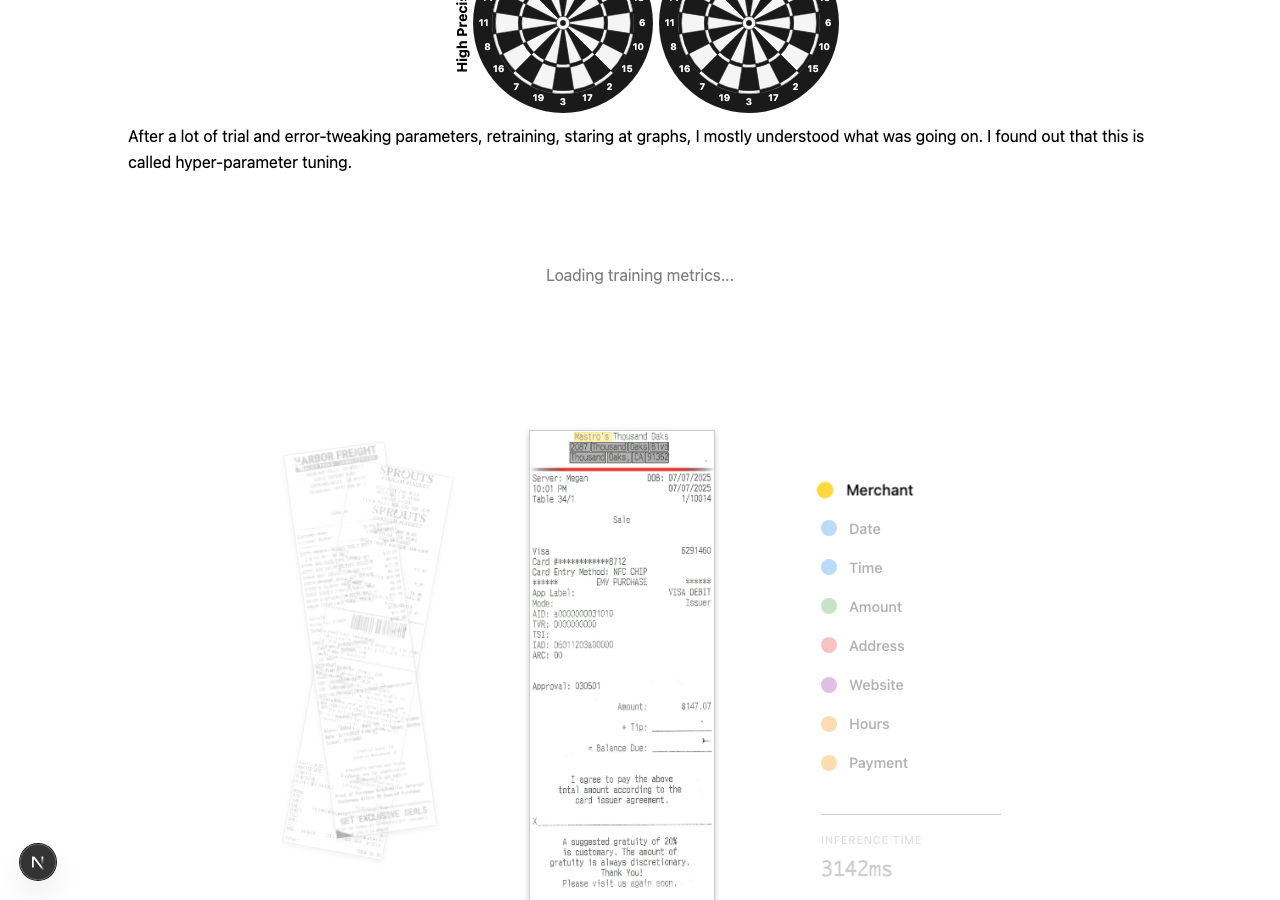
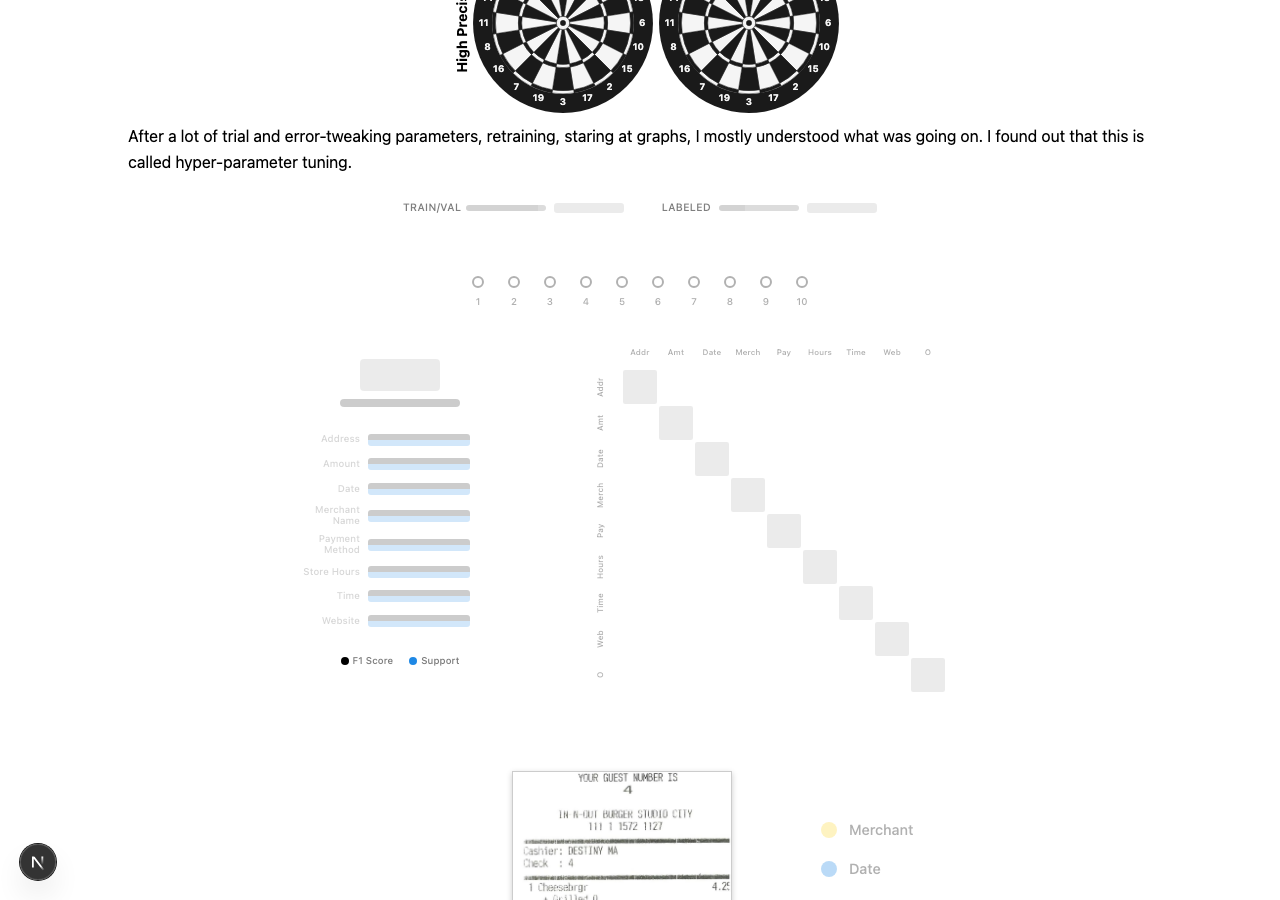
feat: add structured skeleton for TrainingMetricsAnimation
Replace plain "Loading training metrics..." text with a skeleton that
mirrors the loaded layout: dataset stats bars, epoch timeline dots,
per-label bar rows with real label names, F1 gauge placeholder,
confusion matrix grid, and the BarLegend. Uses the same .container
grid and CSS classes as the loaded state for zero layout shift.

diff --git a/portfolio/components/ui/Figures/TrainingMetricsAnimation/index.tsx b/portfolio/components/ui/Figures/TrainingMetricsAnimation/index.tsx
@@ -1,4 +1,4 @@
-import React, { useEffect, useState, useMemo, useRef } from "react";
+import React, { useCallback, useEffect, useState, useMemo, useRef } from "react";
 import { animated, useSpring, config } from "@react-spring/web";
 import { useInView } from "react-intersection-observer";
 import { api } from "../../../../services/api";
@@ -454,12 +454,144 @@ const MatrixCell: React.FC<MatrixCellProps> = ({ value, rowSum, isDiagonal }) =>
   );
 };
 
+// Skeleton placeholder labels (match the 8 entity labels in the loaded state)
+const SKELETON_LABELS = [
+  "Address", "Amount", "Date", "Merchant Name",
+  "Payment Method", "Store Hours", "Time", "Website",
+];
+
+// 9 labels for the confusion matrix (8 entity + O)
+const SKELETON_MATRIX_LABELS = ["Addr", "Amt", "Date", "Merch", "Pay", "Hours", "Time", "Web", "O"];
+
+const SKELETON_BG = "rgba(var(--text-color-rgb, 0, 0, 0), 0.08)";
+
+// Skeleton that mirrors the loaded layout exactly
+const TrainingMetricsSkeleton: React.FC = () => {
+  const N = SKELETON_MATRIX_LABELS.length;
+  const gridTemplateColumns = `var(--matrix-label-col) repeat(${N}, var(--matrix-cell-size))`;
+  const gridTemplateRows = `var(--matrix-header-row) repeat(${N}, var(--matrix-cell-size))`;
+
+  return (
+    <>
+      {/* DatasetStats skeleton */}
+      <div className={styles.datasetStats}>
+        <div className={styles.statGroup}>
+          <span className={styles.statLabel}>Train/Val</span>
+          <div className={styles.segmentedBar}>
+            <div style={{ width: "90%", height: "100%", background: SKELETON_BG }} />
+            <div style={{ width: "10%", height: "100%", background: SKELETON_BG, opacity: 0.5 }} />
+          </div>
+          <span className={styles.statValues} style={{ background: SKELETON_BG, borderRadius: 3, width: 70, height: 10 }} />
+        </div>
+        <div className={styles.statGroup}>
+          <span className={styles.statLabel}>Labeled</span>
+          <div className={styles.segmentedBar}>
+            <div style={{ width: "33%", height: "100%", background: SKELETON_BG }} />
+            <div style={{ width: "67%", height: "100%", background: SKELETON_BG, opacity: 0.5 }} />
+          </div>
+          <span className={styles.statValues} style={{ background: SKELETON_BG, borderRadius: 3, width: 30, height: 10 }} />
+        </div>
+      </div>
+
+      {/* Desktop timeline skeleton */}
+      <div className={styles.timeline}>
+        <div className={styles.timelineNodes}>
+          {Array.from({ length: 10 }, (_, i) => (
+            <div key={i} className={styles.timelineNode}>
+              <span className={styles.timelineNodeDot} style={{ opacity: 0.3 }} />
+              <span className={styles.timelineNodeLabel} style={{ opacity: 0.3 }}>{i + 1}</span>
+            </div>
+          ))}
+        </div>
+      </div>
+
+      {/* Mobile timeline skeleton */}
+      <div className={styles.timelineMobile}>
+        <div className={styles.timelineArrow} style={{ opacity: 0.25 }}>‹</div>
+        <div className={styles.timelineMobileCenter}>
+          <span className={styles.timelineMobileText} style={{ opacity: 0.3 }}>— / —</span>
+        </div>
+        <div className={styles.timelineArrow} style={{ opacity: 0.25 }}>›</div>
+      </div>
+
+      {/* Left panel skeleton */}
+      <div className={styles.leftPanel}>
+        {/* F1 Gauge */}
+        <div className={styles.gaugeContainer}>
+          <div style={{ width: 80, height: 32, background: SKELETON_BG, borderRadius: 4 }} />
+          <div className={styles.gaugeBar} />
+        </div>
+
+        {/* Per-label bars */}
+        <div className={styles.perLabelContainer}>
+          {SKELETON_LABELS.map((label) => (
+            <div key={label} className={styles.labelRow}>
+              <span className={styles.labelName} style={{ opacity: 0.3 }}>{label}</span>
+              <div className={styles.labelBarStack}>
+                <div className={styles.labelBarSegmented}>
+                  <div className={styles.labelBarEmpty} style={{ width: "100%" }} />
+                </div>
+                <div className={styles.labelBarDistribution}>
+                  <div className={styles.labelBarDistEmpty} style={{ width: "100%" }} />
+                </div>
+              </div>
+              <span className={styles.labelBarValue} style={{ opacity: 0 }}>0.00</span>
+            </div>
+          ))}
+        </div>
+
+        {/* Bar legend */}
+        <BarLegend />
+      </div>
+
+      {/* Right panel — confusion matrix skeleton */}
+      <div className={styles.rightPanel}>
+        <div className={styles.matrixContainer}>
+          <div className={styles.matrixGrid} style={{ gridTemplateColumns, gridTemplateRows }}>
+            <div className={styles.matrixCorner} />
+            {SKELETON_MATRIX_LABELS.map((label) => (
+              <div key={`x-${label}`} className={styles.matrixAxisLabel} style={{ opacity: 0.3 }}>
+                {label}
+              </div>
+            ))}
+            {SKELETON_MATRIX_LABELS.map((rowLabel, i) => (
+              <React.Fragment key={`row-${i}`}>
+                <div className={`${styles.matrixAxisLabel} ${styles.matrixAxisLabelY}`} style={{ opacity: 0.3 }}>
+                  {rowLabel}
+                </div>
+                {SKELETON_MATRIX_LABELS.map((_, j) => (
+                  <div
+                    key={`${i}-${j}`}
+                    className={styles.matrixCell}
+                    style={{ backgroundColor: i === j ? SKELETON_BG : "transparent" }}
+                  />
+                ))}
+              </React.Fragment>
+            ))}
+          </div>
+        </div>
+      </div>
+    </>
+  );
+};
+
 // Main Component
 const TrainingMetricsAnimation: React.FC = () => {
-  const { ref, inView } = useInView({
+  const { ref: lazyRef, inView: nearViewport } = useInView({
+    triggerOnce: true,
+    rootMargin: "200px",
+  });
+  const { ref: animRef, inView } = useInView({
     threshold: 0.3,
     triggerOnce: true,
   });
+  const setRefs = useCallback(
+    (node: HTMLDivElement | null) => {
+      lazyRef(node);
+      animRef(node);
+    },
+    [lazyRef, animRef],
+  );
   const [epochs, setEpochs] = useState<TrainingMetricsEpoch[]>([]);
   const [datasetMetrics, setDatasetMetrics] = useState<DatasetMetrics | undefined>();
   const [currentEpochIndex, setCurrentEpochIndex] = useState(0);
@@ -468,9 +600,9 @@ const TrainingMetricsAnimation: React.FC = () => {
   const hasStartedAnimation = useRef(false);
   const hasFetchedRef = useRef(false);
 
-  // Fetch data only when in view - defers work until section is visible
+  // Fetch data only when near viewport - defers work until section is close
   useEffect(() => {
-    if (!inView || hasFetchedRef.current) return;
+    if (!nearViewport || hasFetchedRef.current) return;
     hasFetchedRef.current = true;
 
     api
@@ -484,7 +616,7 @@ const TrainingMetricsAnimation: React.FC = () => {
         console.error("Failed to fetch training metrics:", err);
         setIsLoading(false);
       });
-  }, [inView]);
+  }, [nearViewport]);
 
   // Autoplay animation when in view and data is loaded
   useEffect(() => {
@@ -525,18 +657,18 @@ const TrainingMetricsAnimation: React.FC = () => {
 
   const currentEpoch = epochs[currentEpochIndex];
 
-  if (isLoading) {
+  if (!nearViewport || isLoading) {
     return (
-      <div ref={ref} className={styles.loading}>
-        Loading training metrics...
+      <div ref={setRefs} className={styles.container}>
+        <TrainingMetricsSkeleton />
       </div>
     );
   }
 
   if (!currentEpoch) {
     return (
-      <div ref={ref} className={styles.loading}>
-        No training data available
+      <div ref={setRefs} className={styles.container}>
+        <TrainingMetricsSkeleton />
       </div>
     );
   }
@@ -546,7 +678,7 @@ const TrainingMetricsAnimation: React.FC = () => {
   };
 
   return (
-    <animated.div ref={ref} className={styles.container}>
+    <animated.div ref={setRefs} className={styles.container}>
       <DatasetStats datasetMetrics={datasetMetrics} />
       <EpochTimeline
         epochs={epochs}
